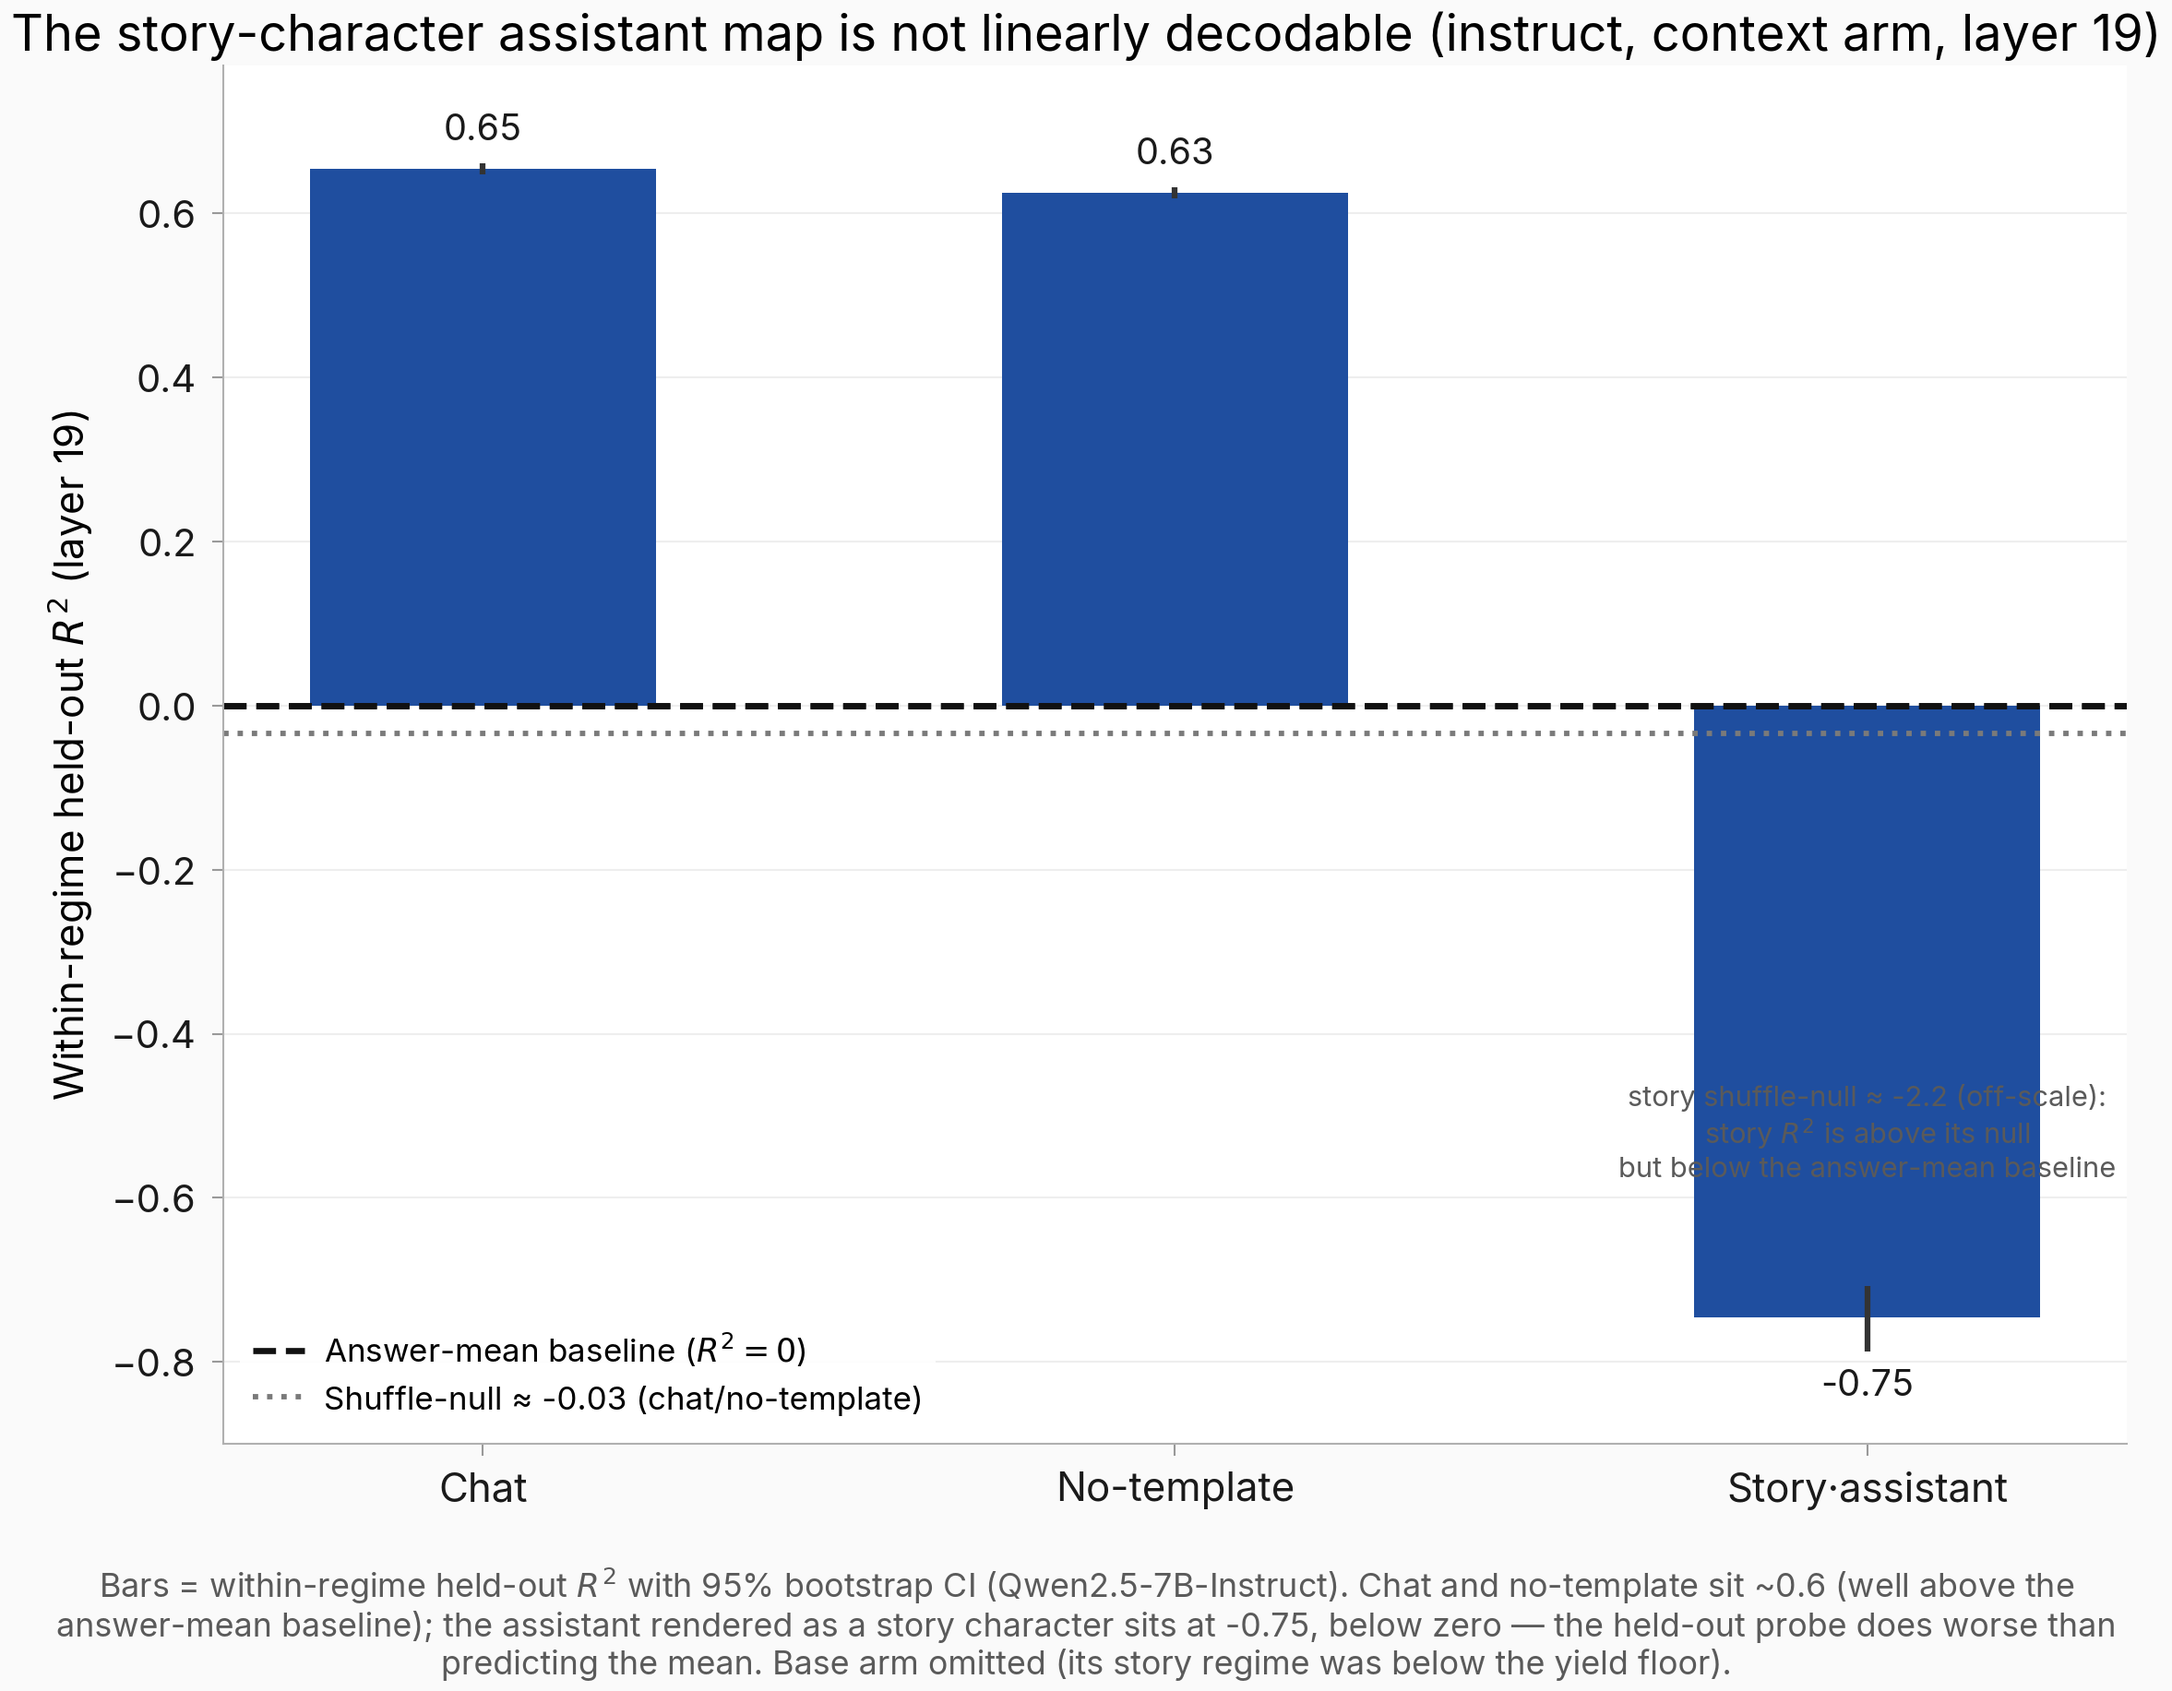
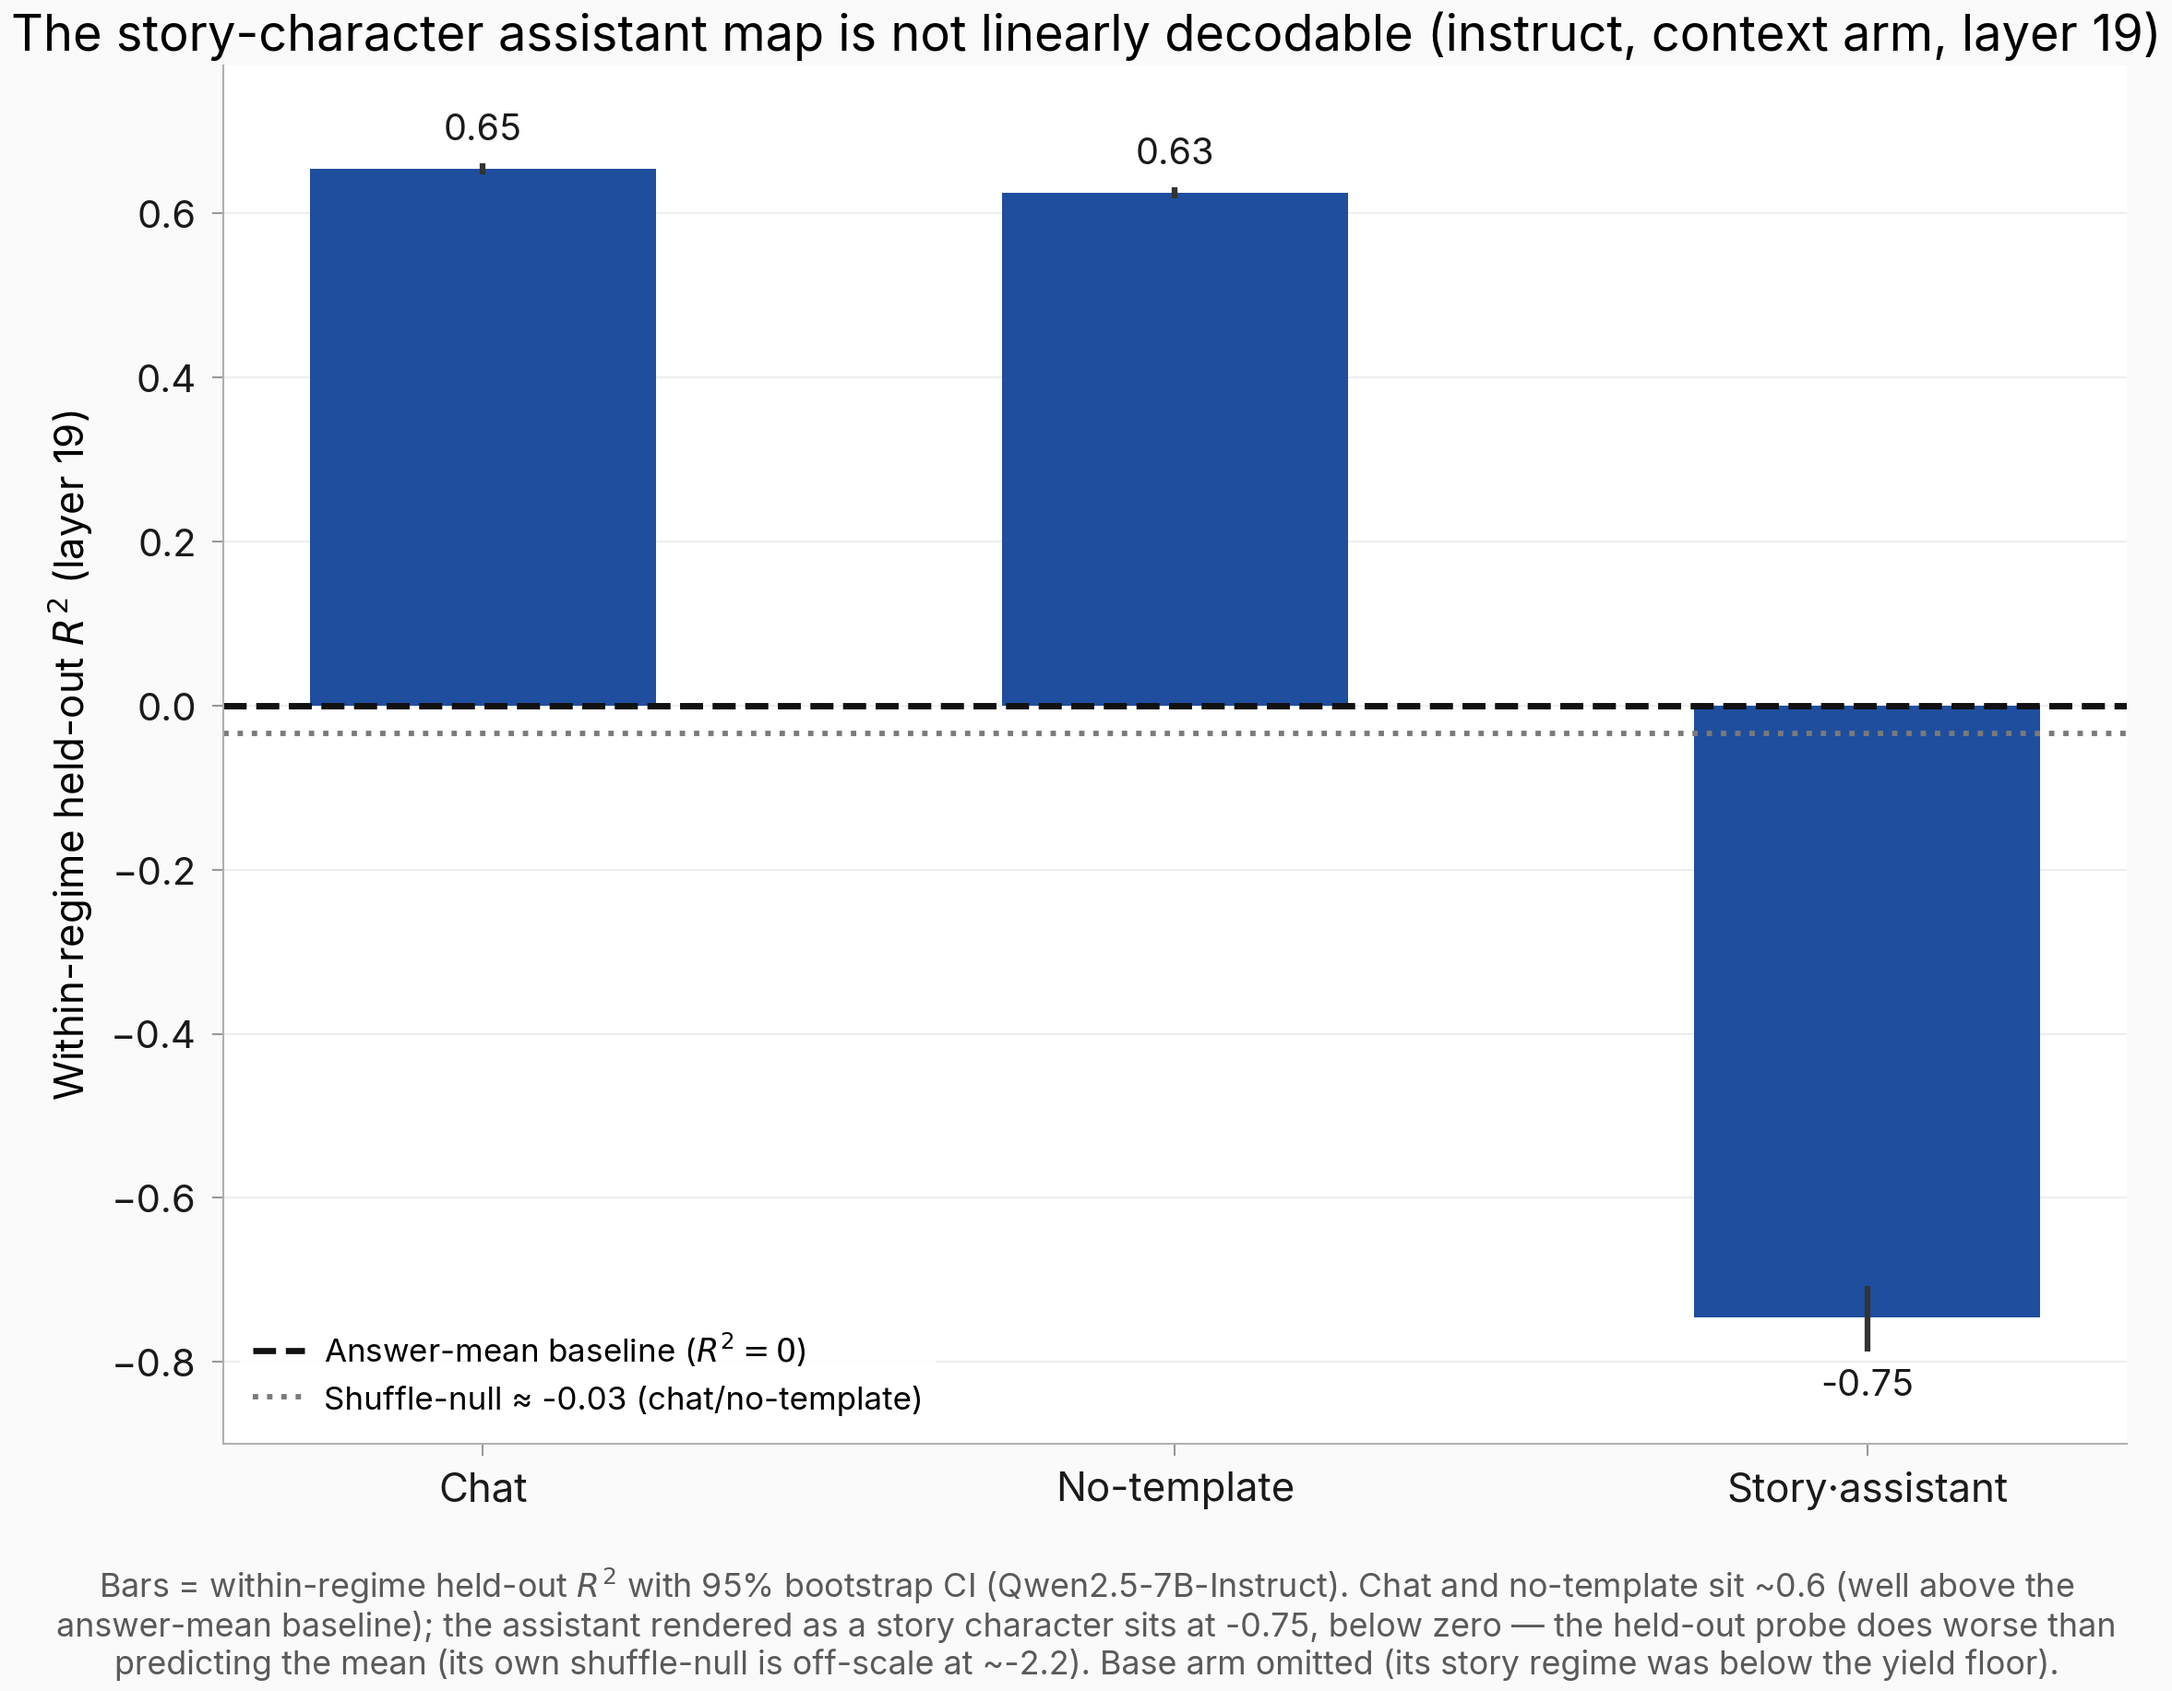
figures(#1345): result2 within-regime — remove on-bar off-scale-null note (moved to caption)
Generated with [Claude Code](https://claude.ai/code)
via [Happy](https://happy.engineering)

Changed region(s): [[0.062, 0.964, 0.9303, 0.9951], [0.7443, 0.6219, 0.9613, 0.7152], [0.9303, 0.6219, 0.9613, 0.653]]

diff --git a/scripts/issue1345_clear_figs.py b/scripts/issue1345_clear_figs.py
@@ -230,18 +230,8 @@ def plot_result2_withinregime() -> dict:
         lw=1.4,
         label=f"Shuffle-null ≈ {null_nonstory:.2f} (chat/no-template)",
     )
-    # Story's own shuffle-null is far lower (off-scale) — note it below the story bar.
+    # Story's own shuffle-null is far lower (off-scale); noted in the caption, not on the bar.
     story_null = d[("instruct", 2)]["null_mean"]
-    ax.text(
-        x[2],
-        -0.52,
-        f"story shuffle-null ≈ {story_null:.1f} (off-scale):\nstory $R^2$ is above its null\n"
-        "but below the answer-mean baseline",
-        fontsize=7.4,
-        color="#5A5A5A",
-        ha="center",
-        va="center",
-    )
 
     ax.set_xticks(x, frames, fontsize=10.5)
     ax.set_ylabel("Within-regime held-out $R^2$ (layer 19)", fontsize=10.5)
@@ -262,7 +252,8 @@ def plot_result2_withinregime() -> dict:
         "Bars = within-regime held-out $R^2$ with 95% bootstrap CI (Qwen2.5-7B-Instruct). "
         "Chat and no-template sit ~0.6 (well above the answer-mean baseline); the assistant "
         "rendered as a story character sits at -0.75, below zero — the held-out probe does worse "
-        "than predicting the mean. Base arm omitted (its story regime was below the yield floor).",
+        f"than predicting the mean (its own shuffle-null is off-scale at ~{story_null:.1f}). "
+        "Base arm omitted (its story regime was below the yield floor).",
         ha="center",
         va="top",
         fontsize=8.6,
